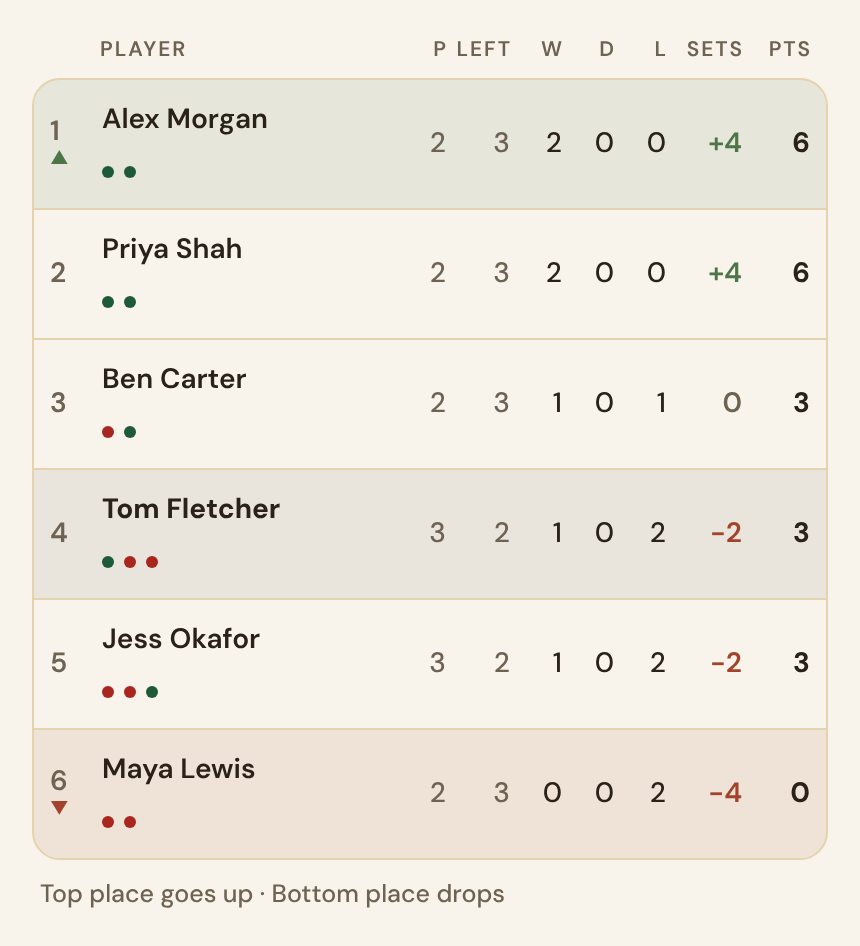
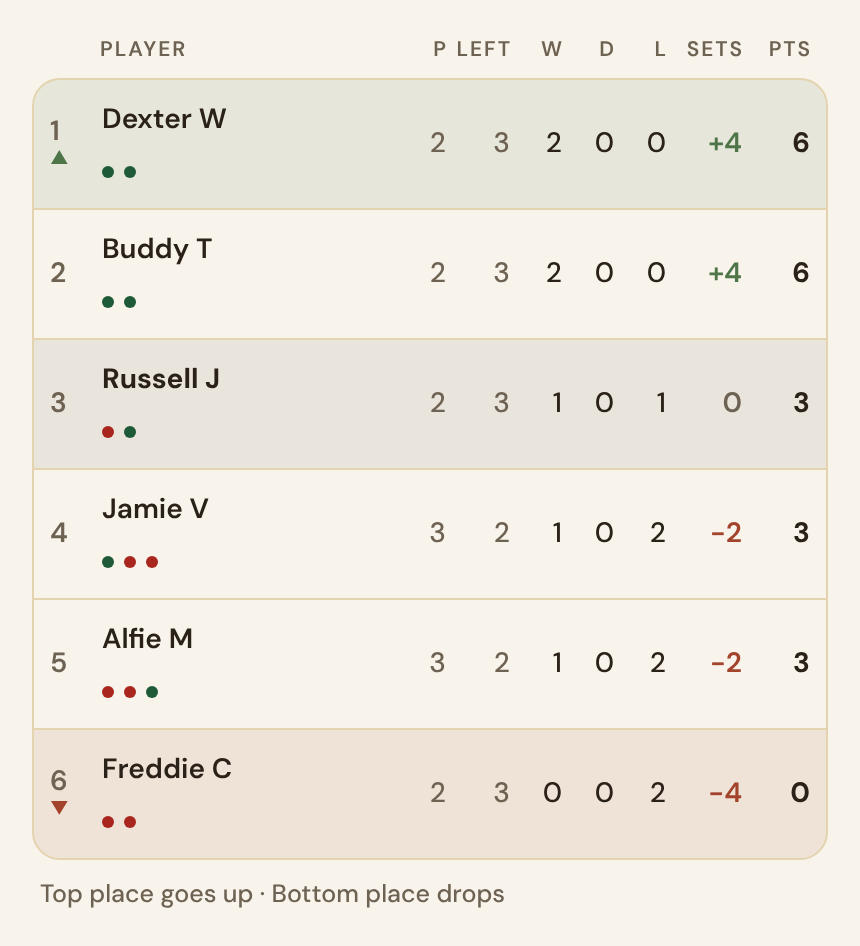
Landing page: Sam's example names, a Home screen in the phone
Sam, 2026-10-31: use his invented names, first name + surname initial,
keeping the numbers.

- Club tables: 1 Dexter W, 2 Russell J (the "you" row), 3 Buddy T,
  4 Stanley S, 5 Harry A; ratings unchanged (1712 / 1648 / 1561 / 1534 /
  1470).
- Division table: Dexter W top and promoted, Buddy T, Russell J (his row
  highlighted), then Jamie V, Alfie M, Freddie C.
- The share-sheet picture is now the club-chat one: "Still to play"
  (Russell J v Jamie V, Alfie M v Russell J) over the latest results.
- Head-to-heads: Dexter W the nemesis at 0–0–3, Alfie M and Harry A also
  behind; Jamie V, Buddy T, Stanley S and Freddie C ahead; rivalry cards
  Russell J v Jamie V (7–1–6) and v Alfie M (3–0–5), consistent with the
  lists.
- The phone shows Home rather than a profile: "Evening, Russell", 2nd on
  1648, and "This week: Beat Freddie C, 6-3 3-1" (phone-home.png;
  phone-profile.png removed).

All re-photographed from the app's own components; no real member's name
is anywhere on the page.

Claude-Session: https://claude.ai/code/session_01ChDKaURkpeQZ4tF31nzbtU

diff --git a/src/components/landing/Landing.tsx b/src/components/landing/Landing.tsx
@@ -13,7 +13,9 @@ import {
  * Always the Southwood theme (cream, brass, ink), whatever the device last
  * picked: data-theme="rally" on the wrapper re-scopes every token. The
  * screenshots in /public/landing are the app's own components photographed
- * with invented players — never real members' names on a public page.
+ * with invented players — never real members' names on a public page. The
+ * names are Sam's (2026-10-31): Dexter W, Russell J (the "you"), Buddy T,
+ * Stanley S, Jamie V, Alfie M, Freddie C, Harry A, at "Riverside RC".
  *
  * The contact address is CONTACT_EMAIL. southwood.app has no inbox of its
  * own (Resend only sends), so it needs email forwarding set up at Porkbun
@@ -53,7 +55,7 @@ export default function Landing({ onSignIn, onJoin }: { onSignIn: () => void; on
           </div>
           <div className="lp-phone" aria-hidden="true">
             <div className="lp-phone-screen">
-              <img src="/landing/phone-profile.png" width={780} height={1688} alt="" />
+              <img src="/landing/phone-home.png" width={780} height={1688} alt="" />
             </div>
           </div>
         </section>
@@ -83,7 +85,7 @@ export default function Landing({ onSignIn, onJoin }: { onSignIn: () => void; on
           </>}
           shots={[
             { src: "/landing/division.png", w: 860, h: 946, alt: "A division table with promotion and relegation places" },
-            { src: "/landing/sheet.png", w: 860, h: 1060, alt: "A printable division share sheet with a QR code" },
+            { src: "/landing/sheet.png", w: 860, h: 1060, alt: "A share sheet for the club chat: still to play, latest results and a QR code" },
           ]}
         />
 
@@ -97,8 +99,8 @@ export default function Landing({ onSignIn, onJoin }: { onSignIn: () => void; on
             club straight from their profile, with the time and the court.
           </>}
           shots={[
-            { src: "/landing/h2h-lists.png", w: 780, h: 1252, alt: "Who a player is behind and ahead of, with each head-to-head record" },
-            { src: "/landing/h2h-rivals.png", w: 860, h: 770, alt: "Two rivalry cards with head-to-head records" },
+            { src: "/landing/h2h-lists.png", w: 780, h: 1120, alt: "Who a player is behind and ahead of, with each head-to-head record" },
+            { src: "/landing/h2h-rivals.png", w: 860, h: 774, alt: "Two rivalry cards with head-to-head records" },
           ]}
         />
 
